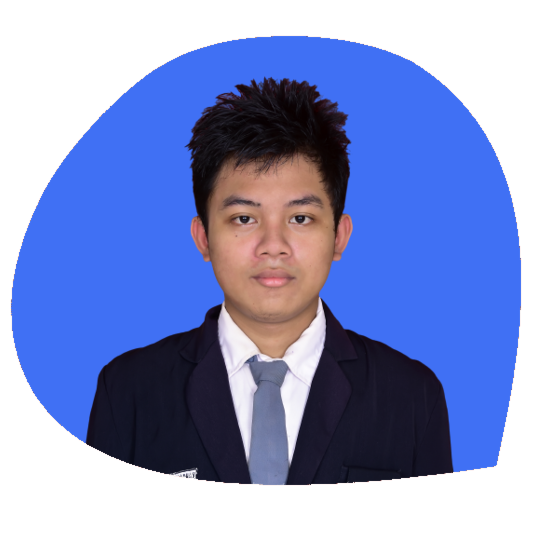
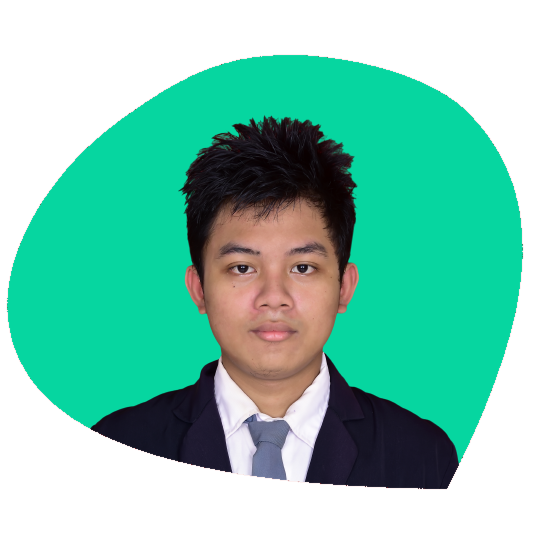
edit style

diff --git a/script.js b/script.js
@@ -44,7 +44,7 @@ navLink.forEach((n) => n.addEventListener("click", linkAction));
 // Scroll Reveal Animation
 const sr = ScrollReveal({
   origin: "top",
-  distance: "80px",
+  distance: "120px",
   duration: 2000,
   reset: true,
 });

diff --git a/style.css b/style.css
@@ -9,8 +9,8 @@
 
 /* Colors */
 :root {
-  --first-color: #4070f4;
-  --second-color: #0e2431;
+  --first-color: #06d6a0;
+  --second-color: #073b4c;
 }
 
 /* Font and Typography */
